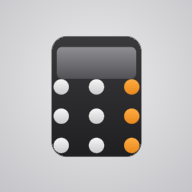
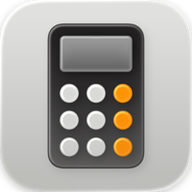
icona Apple ufficiale + logica calcolatrice iOS + no text-select

diff --git a/index.html b/index.html
@@ -5,8 +5,8 @@
 <meta name="viewport" content="width=device-width,initial-scale=1,viewport-fit=cover,user-scalable=no">
 <title>Calcolatrice</title>
 <meta name="theme-color" content="#000000">
-<link rel="manifest" href="manifest.webmanifest?v=3">
-<link rel="apple-touch-icon" href="icon-192.png?v=3">
+<link rel="manifest" href="manifest.webmanifest?v=4">
+<link rel="apple-touch-icon" href="icon-192.png?v=4">
 <style>
   :root{
     --ground:#131016;--surface:#1c1722;--line:#332a3e;--ink:#efe9dc;
@@ -17,7 +17,9 @@
   }
   *{box-sizing:border-box;margin:0;padding:0;-webkit-tap-highlight-color:transparent}
   html,body{height:100%}
-  body{background:#000;color:var(--ink);font-family:var(--sans);overscroll-behavior:none}
+  body{background:#000;color:var(--ink);font-family:var(--sans);overscroll-behavior:none;
+    -webkit-user-select:none;user-select:none;-webkit-touch-callout:none}
+  input,textarea{-webkit-user-select:text;user-select:text}
   .screen{display:none;min-height:100dvh;flex-direction:column}
   .screen.on{display:flex}
   button{font-family:inherit;cursor:pointer}
@@ -204,30 +206,46 @@
   $('btnBack').onclick=function(){show('console')};
   $('btnLock').onclick=function(){stopMic();show('calc')};
 
-  /* ---------- calcolatrice ---------- */
-  var disp=$('calcDisp'),cur='0';
-  function paint(){disp.textContent=cur.replace(/\./g,',');}
+  /* ---------- calcolatrice: logica stile iOS (display = solo il numero corrente) ---------- */
+  var disp=$('calcDisp'),acc=null,op=null,entry='0',fresh=true;
+  function fmtNum(n){
+    if(!isFinite(n))return 'Errore';
+    var s=String(Math.round(n*1e10)/1e10);
+    if(s.replace('-','').replace('.','').length>9)s=String(Number(n.toPrecision(9)));
+    return s;
+  }
+  function paint(){disp.textContent=entry.replace('.',',');}
+  function resetCalc(){acc=null;op=null;entry='0';fresh=true;paint();}
+  function applyOp(a,o,b){
+    if(o==='+')return a+b; if(o==='−')return a-b;
+    if(o==='×')return a*b; return b===0?Infinity:a/b;
+  }
   $('cgrid').addEventListener('click',function(e){
     var b=e.target.closest('button');if(!b||b.id==='secretC')return;
     var k=b.dataset.k;if(!k)return;
-    if(/^[0-9]$/.test(k)){cur=(cur==='0'?k:cur+k).slice(0,12);paint();}
-    else if(k==='.'){var last=cur.split(/[÷×−+]/).pop();if(last.indexOf('.')<0){cur+='.';paint();}}
-    else if(k==='del'){cur=cur.length>1?cur.slice(0,-1):'0';paint();}
-    else if(k==='pm'){cur=cur.charAt(0)==='-'?cur.slice(1):'-'+cur;paint();}
-    else if(k==='pct'){cur=String(parseFloat(cur)/100||0);paint();}
-    else if(k==='='){
-      try{cur=String(Function('"use strict";return('+cur.replace(/×/g,'*').replace(/÷/g,'/').replace(/−/g,'-')+')')());}
-      catch(_){cur='0'}
-      if(cur.length>10)cur=String(parseFloat(cur).toPrecision(8));
+    if(/^[0-9]$/.test(k)){
+      if(fresh){entry=k;fresh=false;}
+      else if(entry.replace('-','').replace('.','').length<9)entry=(entry==='0'?k:entry+k);
       paint();
     }
-    else if('÷×−+'.indexOf(k)>=0&&cur.length<11){cur+=k;paint();}
+    else if(k==='.'){if(fresh){entry='0.';fresh=false;}else if(entry.indexOf('.')<0)entry+='.';paint();}
+    else if(k==='del'){entry=(fresh||entry.length<=1||(entry.length===2&&entry.charAt(0)==='-'))?'0':entry.slice(0,-1);if(entry==='0')fresh=true;paint();}
+    else if(k==='pm'){entry=entry.charAt(0)==='-'?entry.slice(1):(entry==='0'?entry:'-'+entry);paint();}
+    else if(k==='pct'){entry=fmtNum(parseFloat(entry)/100);fresh=true;paint();}
+    else if('÷×−+'.indexOf(k)>=0){
+      if(op!==null&&!fresh){acc=applyOp(acc,op,parseFloat(entry));entry=fmtNum(acc);}
+      else acc=parseFloat(entry);
+      op=k;fresh=true;paint();
+    }
+    else if(k==='='){
+      if(op!==null){entry=fmtNum(applyOp(acc,op,parseFloat(entry)));acc=null;op=null;fresh=true;paint();}
+    }
   });
   /* long-press segreto su C */
   var sb=$('secretC'),timer=null;
   function startHold(ev){ev.preventDefault();
     timer=setTimeout(function(){timer=null;show('console');},900);}
-  function endHold(){if(timer){clearTimeout(timer);timer=null;}cur='0';disp.textContent='0';}
+  function endHold(){if(timer){clearTimeout(timer);timer=null;resetCalc();}}
   sb.addEventListener('pointerdown',startHold);
   sb.addEventListener('pointerup',endHold);
   sb.addEventListener('pointerleave',endHold);
